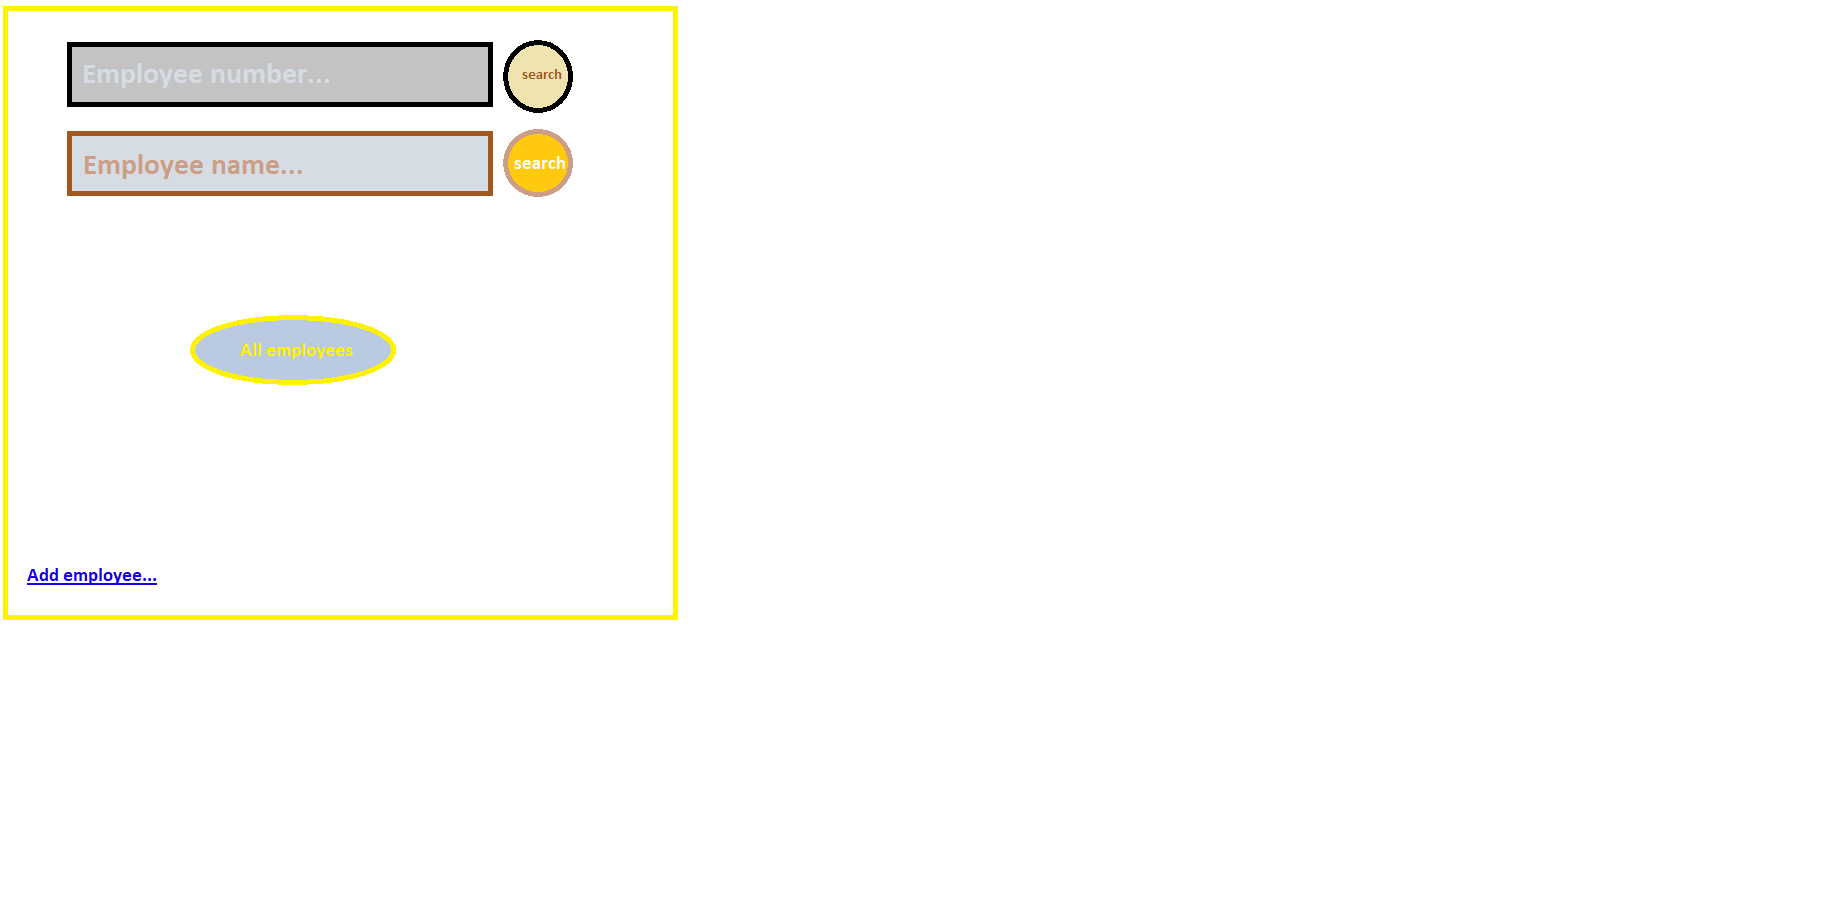
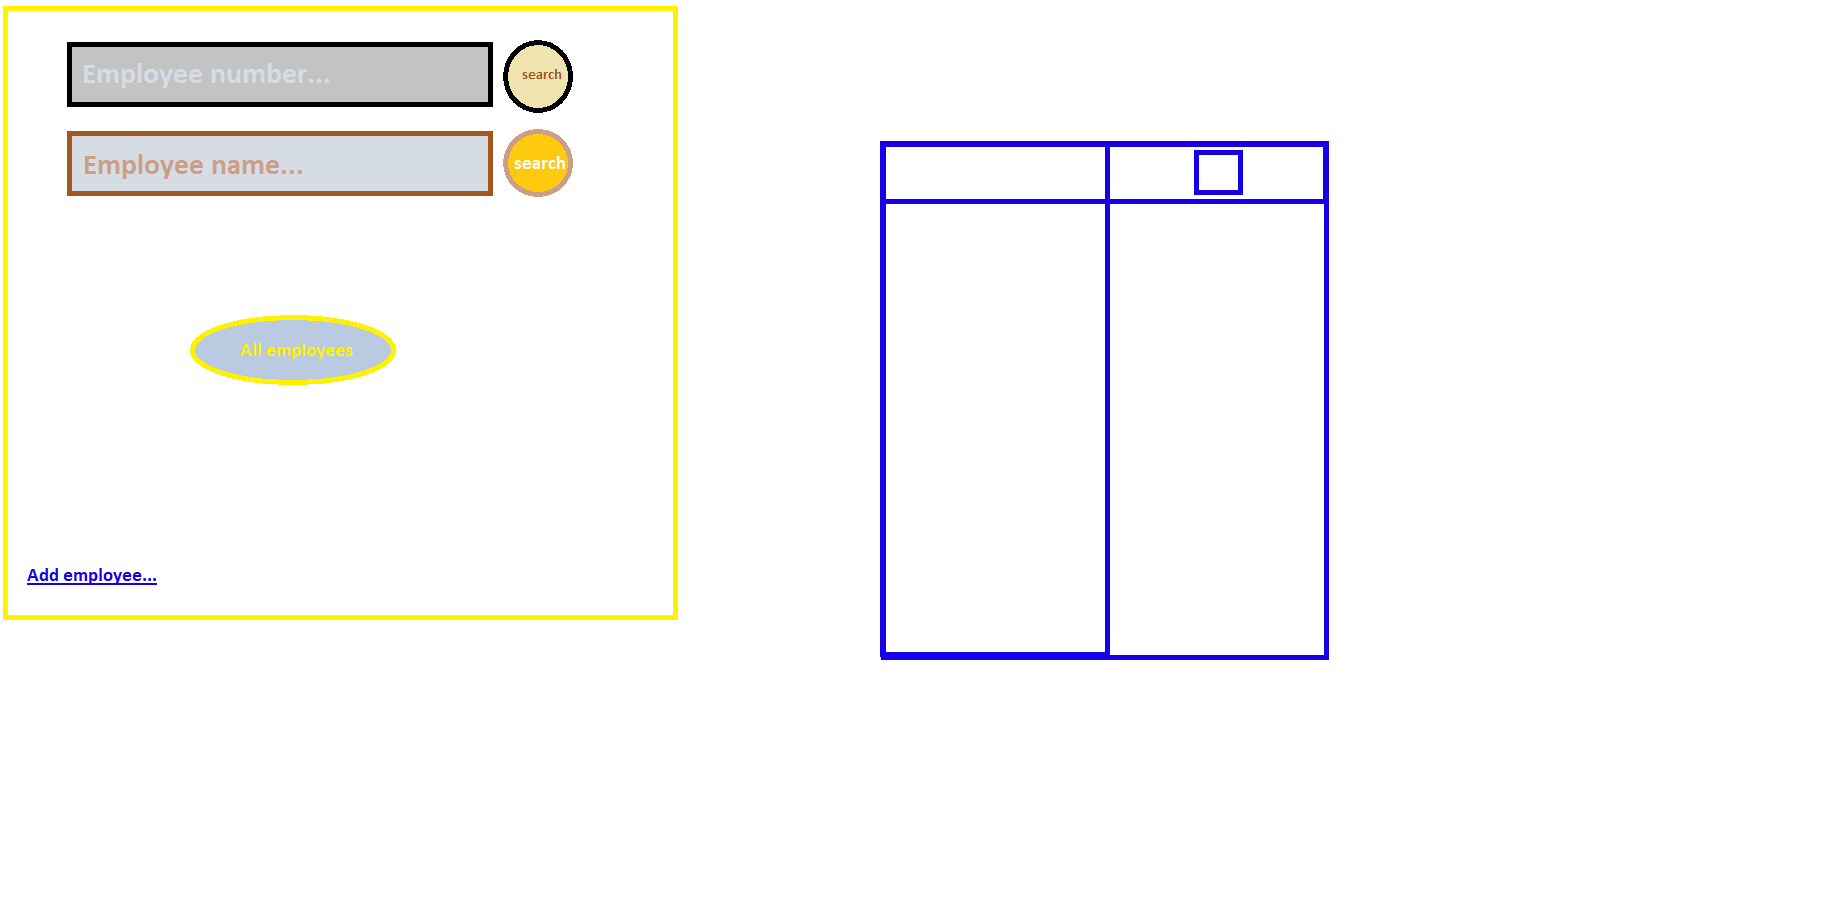
Adding Lab2

Changed region(s): [[0.4664, 0.1527, 0.7463, 0.7328]]

diff --git a/src/Lab_2/web/html/index.html b/src/Lab_2/web/html/index.html
@@ -1,0 +1,109 @@
+<!DOCTYPE html>
+<html>
+<head>
+	<title>Employees</title>
+	<link rel="stylesheet" type="text/css" href="../css/index.css">
+</head>
+<body>
+
+<div class="body_inner">
+
+	<h1 class="title">Employees</h1>
+
+
+	<div class="section">
+		<div class="new_section">
+			<div class="search_section">
+				<div class="search">
+					<input type="search" name="name" value="search by name">
+					<button>OK</button>
+				</div>
+			</div>
+		</div>
+
+		<div class="new_section">
+			<div class="search_section">
+				<div class="search">
+					<input type="search" name="number" value="search by number" alt = "search by number">
+					<button>OK</button>
+				</div>
+			</div>
+		</div>
+
+		<div class="new_section">
+			<div class="search_section">
+				<button>Показать всех</button>
+			</div></div>
+	</div>
+	
+	<div class="new_section">
+		<a href="newEmployeePage.html">Новый сотрудник</a>
+	</div>
+
+	<div class="new_section">
+		<div class="table_section">
+			<table id="employees_table" class="employees_table">
+				<tr class="table_line">
+					<th></th>
+					<th>Номер сотрудника</th>
+					<th>Имя сотрудника</th>
+					<th>Должность</th>
+					<th>Дата принятия</th>
+					<th>Департамент</th>
+					<th>Удалить</th>
+				</tr>
+
+				<tr class="table_line">
+					<td><input type="checkbox" name=""></td>
+					<td><a href="#">523886</a></td>
+					<td>Алексей</td>
+					<td>Администратор баз данных</td>
+					<td>Дата принятия</td>
+					<td>Департамент</td>
+					<td>Удалить</td>
+				</tr>
+				<tr class="table_line">
+					<td><input type="checkbox" name=""></td>
+					<td><a href="#">178856</a></td>
+					<td>Андрей</td>
+					<td>Администратор вычислительной сети</td>
+					<td>Дата принятия</td>
+					<td>Департамент</td>
+					<td>Удалить</td>
+				</tr>
+				<tr class="table_line">
+					<td><input type="checkbox" name=""></td>
+					<td><a href="#">848736</a></td>
+					<td>Георгий</td>
+					<td>Администратор защиты</td>
+					<td>Дата принятия</td>
+					<td>Департамент</td>
+					<td>Удалить</td>
+				</tr>
+				<tr class="table_line">
+					<td><input type="checkbox" name=""></td>
+					<td><a href="#">845636</a></td>
+					<td>Владимир</td>
+					<td>Аналитик программного обеспечения</td>
+					<td>Дата принятия</td>
+					<td>Департамент</td>
+					<td>Удалить</td>
+				</tr>
+				<tr class="table_line">
+					<td><input type="checkbox" name=""></td>
+					<td><a href="#">545656</a></td>
+					<td>Егор</td>
+					<td>Архитектор программного обеспечения</td>
+					<td>Дата принятия</td>
+					<td>Департамент</td>
+					<td>Удалить</td>
+				</tr>
+
+
+			</table>
+		</div>
+	</div>
+</div>
+
+</body>
+</html>

diff --git a/src/Lab_2/web/css/index.css b/src/Lab_2/web/css/index.css
@@ -1,0 +1,90 @@
+*
+{
+	margin: 0;
+	padding: 0;
+}
+
+.body_inner
+{
+	text-align: center;
+	font-size: 20px;
+	background-color: #ffe7b0;
+	height: 1000px;
+	
+}
+
+.new_section
+{
+	margin:15px 0px 15px 0px;
+	font-size: 20px;
+	text-align: right;
+}
+
+/*.new_section button
+{
+	background-color: #01a834;
+	border:0px;
+	border-radius: 8px;
+}*/
+
+.employees_table
+{
+  border: 1px solid yellow;
+  background-color: #F5E100;
+}
+
+
+.search_section
+{
+  text-align: center;
+}
+
+.table_line
+{
+	border: 1px solid black;
+	text-align: center;
+	
+}
+
+.table_line th
+{
+  background-color:#ffc800;
+  border-right: 1px solid black;
+  padding:0px 20px;
+}
+
+.search_section input
+{
+	border-radius: 5px;
+	border: 1px solid #3e6c9c;
+	background-color: #fff901;
+	opacity: 100%;
+	font-size: 20px;
+	color:#474747;
+}
+
+.search_section button
+{
+	background-color: #ffb300;
+	border:0px;
+	font-size: 20px;
+	color:#000000;
+	border-radius: 5px;
+}
+@import url('https://fonts.googleapis.com/css2?family=Yaldevi:wght@300&display=swap');
+
+.title
+{
+	background-color: #ffcb47;
+	font-family: 'Yaldevi', sans-serif;
+	text-align: left;
+	margin-bottom: 15px;
+}
+
+.section
+{
+	background-color: #ffcb52;
+	display: inline-block;
+	width: 50%;
+}
+

diff --git a/src/Lab_1/Main.java b/src/Lab_1/Main.java
@@ -10,11 +10,10 @@ public class Main {
 
         System.out.println("source xml path:");
         String sourcePath = in.next();
-        //C:\\Users\\Kruppov07\\Desktop\\University\\xml\\groups.xml
+        //src/Lab_1/XML_Files/groups.xml
 
         System.out.println("target xml path:");
         String targetPath = in.next();
-        //C:\\Users\\Kruppov07\\Desktop\\University\\xml\\correctedGroups.xml
 
         XmlDocCorrector docCorrector = new XmlDocCorrector(sourcePath, targetPath);
         docCorrector.correct();

diff --git a/src/Lab_1/DOM/AvgCorrector.java b/src/Lab_1/DOM/AvgCorrector.java
@@ -10,6 +10,7 @@ import java.io.File;
 import java.io.IOException;
 
 public class AvgCorrector {
+
     DocumentBuilderFactory dbf;
     DocumentBuilder db;
     Document doc;
@@ -49,6 +50,7 @@ public class AvgCorrector {
     public Document correctAvg()
     {
         students = doc.getElementsByTagName("student");
+
         for(int i=0;i<students.getLength();i++)
         {
             Element student = (Element) students.item(i);

diff --git a/src/Lab_1/DOM/XmlDocCorrector.java b/src/Lab_1/DOM/XmlDocCorrector.java
@@ -69,7 +69,6 @@ public class XmlDocCorrector {
          }
      }
 
-
      public void correct()
      {
          AvgCorrector avgCorrector = new AvgCorrector(target);
@@ -94,5 +93,6 @@ public class XmlDocCorrector {
              e.printStackTrace();
          }
      }
+
 
 }

diff --git a/src/Lab_2/Main.java b/src/Lab_2/Main.java
@@ -1,0 +1,9 @@
+package Lab_2;
+
+import javax.swing.*;
+
+public class Main {
+    public static void main(String[] args) {
+
+    }
+}
